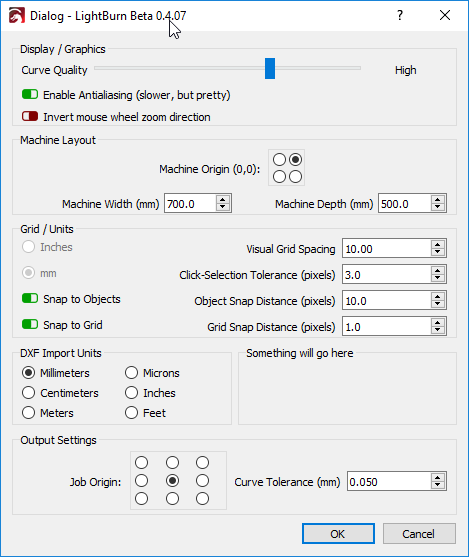
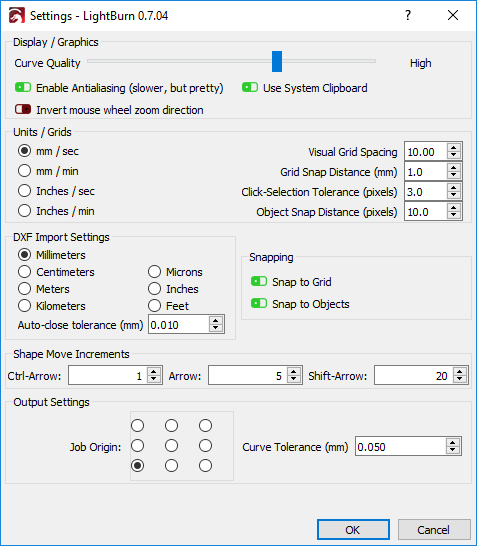
Updated settings docs

diff --git a/Settings.md b/Settings.md
@@ -9,8 +9,9 @@ This is the main LightBurn settings page.
 There are a few different sections here, all related to different settings:
 
 - [Display / Graphics](#Display_Graphics)
-- [Grid / Units](#Grid_Units)
-- [DXF Import Units](#DXF_Import_Units)
+- [Units / Grid](#Grid_Units)
+- [DXF Import Settings](#DXF_Import_Settings)
+- [Shape Move Increments](#Shape_Move_Increments)
 - [Output Settings](#Output_Settings)
 
 <a name="Display_Graphics"></a>
@@ -35,17 +36,29 @@ Aliasing is commonly called "jaggies" - in our case, it's the visible appearance
 
 I'm a PC guy, with a Mac, and the scroll wheel always feels backwards to me, so this switch changes the direction you scroll when zooming. If you're a Mac person stuck on a PC, this is also for you.
 
+##### Use System Clipboard
+
+Enabling this makes copy and paste operations slightly slower, but allows LightBurn to:
+
+- Copy and paste across different runs of LightBurn, or between two running copies of the app
+- Paste images copied from other software or web browsers
+- Paste text directly into the edit window, auto-creating a text object for you
+
 <a name="Grid_Units"></a>
 
-## Grid & Units
+## Units & Grid
 
 ##### Inches / mm
 
-LightBurn currently operates in millimeters only. At some point after the initial release, we expect to support both metric (mm) and imperial (inch) units. For now, this setting is disabled.
+LightBurn internally operates in millimeters, but can display in either millimeters or inches. Speeds can be represented as either units per second or units per minute. Users with diode lasers will likely prefer the units per minute setting, whereas CO2 lasers generally express speeds using units per second.
 
-##### Snap to Objects / Snap to Grid
+##### Visual Grid Spacing
 
-LightBurn has two snapping behaviors which can be enabled / disabled here. Snap to Objects will snap your pointer location to the nearest object center or vertex when creating new objects, or drawing lines, making it easier to connect and align shapes.  Snap to Grid will snap your cursor position to the nearest grid location, as specified by the Grid Snap value.  Note that the Grid Snap and the Visual Grid do not have to be the same.
+The visual grid is set to 10mm by default. Note that this is independent of the Grid Snap setting below.
+
+##### Grid Snap Distance
+
+Positioning of lines and other primitives will snap to the Grid Snap distance unless overridden using the Ctrl key. The default for this is 1mm.
 
 ##### Click Selection Tolerance
 
@@ -55,11 +68,27 @@ This is how close you have to be to a line or vertex, in screen pixels, to click
 
 Controls how close, in screen pixels, your cursor has to be to an object vertex or center to engage the object snapping behavior.
 
-<a name="DXF_Import_Units"></a>
+##### Snap to Objects / Snap to Grid
 
-## DXF Import Units
+LightBurn has two snapping behaviors which can be enabled / disabled here. Snap to Objects will snap your pointer location to the nearest object center or vertex when creating new objects, or drawing lines, making it easier to connect and align shapes.  Snap to Grid will snap your cursor position to the nearest grid location, as specified by the Grid Snap value.  Note that the Grid Snap and the Visual Grid do not have to be the same.
 
-If you work with DXF files, you may need to use this.  DXF files do not store the measurement system that was used to create them. If you create an object that is 5 inches wide, it might import as 5mm wide, because LightBurn can only see the '5'. Similarly, if your object was created in microns, it might import huge. Set this value as appropriate before importing DXF files to ensure correct scaling.
+##### <a name="DXF_Import_Settings"></a>
+
+## DXF Import Settings
+
+##### Units
+
+DXF files do not store the measurement system that was used to create them. If you create an object that is 5 inches wide, it might import as 5mm wide, because LightBurn can only see the '5'. Similarly, if your object was created in microns, it might import huge. Set this value as appropriate before importing DXF files to ensure correct scaling.
+
+##### Auto Close Tolerance
+
+DXF files are often saved as a collection of discrete pieces, instead of continuous paths. The Auto-Close Tolerance value tells LightBurn to connect any lines or curves that are on the same layer and closer together than this value.
+
+<a name="Shape_Move_Increments"></a>
+
+## Shape Move Increments
+
+When moving objects with the cursor keys in the edit window, these values control the distance to move the selection, when using the arrow keys by themselves or with the Control or Shift modifiers.
 
 <a name="Output_Settings"></a>
 
@@ -69,7 +98,7 @@ These two settings affect the output sent to the laser.
 
 ##### Job Origin
 
-This setting controls where LightBurn assumes your laser position to be relative to the graphics in your project when using a "Start From" value of "Current Position" or "User Origin".  This is explained in more detail in the Coordinates and Origin settings page.
+This setting controls where LightBurn assumes your laser position to be relative to the graphics in your project when using a "Start From" value of "Current Position" or "User Origin".  This is explained in more detail in the [Coordinates and Origin](Coordinates_and_Origin.md) settings page.
 
 ##### Curve Tolerance
 

diff --git a/README.md b/README.md
@@ -30,6 +30,7 @@ Lightburn Software.
 #### Installation and Configuration
 * [Installation](Installation.md)
 * [Licensing](Licensing.md)
+* [Global Settings](Settings.md)
 * [Device Setup](DeviceWizard.md)
 * [Device Settings (Edit > Device Settings)](DeviceSettings.md)
 #### Using LightBurn
